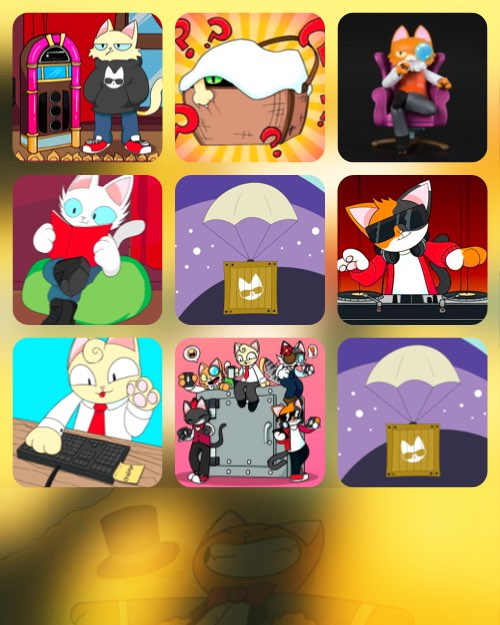
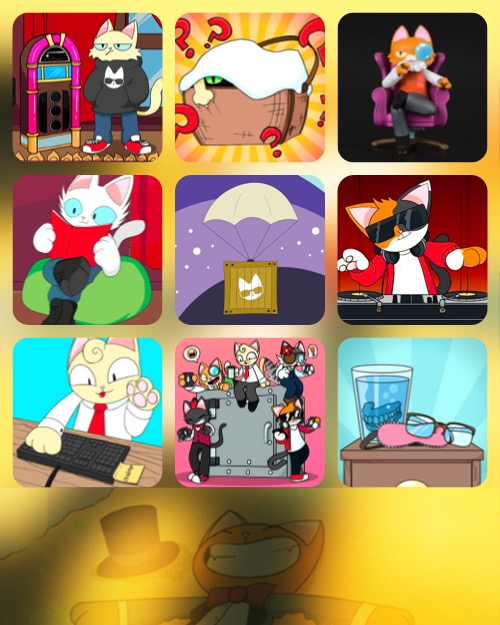
wiki: add 8th purrks - Grandma's Nightstand

Changed region(s): [[0.66, 0.5168, 0.99, 0.7904]]

diff --git a/wiki/club/index.md b/wiki/club/index.md
@@ -21,7 +21,7 @@ Carlini8 is the founder of PCC. PCC has 3 companies[^2]. One original company in
 
 ## Collections
 
-**Currently, PCC has 4 main [Collections](../collections/index.md)**: Cats, Kittens, 2nd Companion (TBA), and Tier 2 (TBA). **With 2 other Collections**: KittyVault Purrks and Purrnelope's Gift. The 4 main collections are classified into 3 tiers, which will yield different amounts of $TOKEN per day.
+**Currently, PCC Universe has 4 main [Collections](../collections/index.md) to the PCC Universe**: Cats, Kittens, 2nd Companion (Cat Grandma), and Tier 2 (TBA). **With 2 other Collections**: KittyVault Purrks and Purrnelope's Gift. The 4 main collections are classified into 3 tiers, which will yield different amounts of $TOKEN per day.
 
 <span className="wikiPostListImgR">
 
@@ -31,7 +31,7 @@ Carlini8 is the founder of PCC. PCC has 3 companies[^2]. One original company in
 
 ### Cats
 
-**[Purrnelope's Cats](../collections/cats/index.md) is PCC's 1st collection** with 10k unique Cat NFTs that grand the membership to the Country Club. Cats are Tier 1 NFTs.
+**[Purrnelope's Cats](../collections/cats/index.md) is the 1st collection in PCC Universe** with 10k unique Cat NFTs that grand the membership to the Country Club. Cats are Tier 1 NFTs.
 
 Cats mint started on 2021-07-17. After Carlini revealed himself behind the PCC project, the cats minted out on 2021-08-12.
 
@@ -43,25 +43,25 @@ Cats mint started on 2021-07-17. After Carlini revealed himself behind the PCC p
 
 ### Kittens
 
-**[Purrnelope's Kittens](../collections/kittens/index.md) is the 1st companions to the Cats** with with 10k unique Kitten NFTs. Kittens are Tier 3 NFTs.
+**[Purrnelope's Kittens](../collections/kittens/index.md) is the 1st companions to the Cats in PCC Universe** with with 10k unique Kitten NFTs. Kittens are Tier 3 NFTs.
 
-Kittens were minted by burning [Kitten Basket](../collections/kittyvault-purrks/2-kitten-basket.md) airdrops.
+Kittens were minted/redeemed by burning [Kitten Basket](../collections/kittyvault-purrks/2-kitten-basket.md) airdrops.
 
-### 2nd Companions (TBA)
+### Cat Grandma
 
-**This will be the 2nd companions to the Cats**, and are Tier 3 NFTs. The detail of the 2nd Companions is likely to be revealed in April or May 2022.
+> Cat Grandma has not been released yet. Name may be different as described here after release.
 
-Mint of 2nd Companions is going to be similar to the Kittens: claim by burning KittyVault Purrks 8th airdrop NFT.[^5]
+**Cat Grandma will be the 2nd companions to the Cats in PCC Universe** and are Tier 3 NFTs. The detail of the Cat Grandma is likely to be revealed in May 2022 after the redeem is opened.
 
-[^5]: Mint was mentioned in [PurrCast of April 27th 2022](https://twitter.com/i/spaces/1jMJgeqZpWAKL).
+Cat Grandma will be minted/redeemed by burning [Grandma's Nightstand](../collections/kittyvault-purrks/8-grandma-s-nightstand.md) airdrops.
 
 ### Tier 2 (TBA)
 
-**Tier 2 (TBA) is the PCC equivalent of Meebits / Mutants.** It is the second entry to the PCC Universe. And there are potentially 6 different version of Tier 2[^6].
+**Tier 2 (TBA) is the equivalent of Meebits / Mutants in PCC Universe.** It is the second entry to the PCC Universe. And there are potentially 6 different version of Tier 2[^5].
 
 The sale for Tier 2 has not been officially announced yet.
 
-[^6]: Some detail on Tier 2 was mentioned in [interivew by Overpriced JPEGs](/posts/2022/03/30/3rd-party/overpriced-jpegs#purrnelope-token-utility). And detail may change before it announced officially.
+[^5]: Some detail on Tier 2 was mentioned in [interivew by Overpriced JPEGs](/posts/2022/03/30/3rd-party/overpriced-jpegs#purrnelope-token-utility). And detail may change before it announced officially.
 
 <span className="wikiPostListImgR">
 
@@ -121,9 +121,9 @@ The merchandise was planned since Roadmap V1, and the team is currently working 
 
 ## Games
 
-**Games are planned in [Roadmap V2](/posts/2022/02/25/post/roadmap-2-0-6-months-on-from-launch). 4 Games are currently planned.** And the Team is working with Entity Builds to develope the first game in the NFT Worlds metaverse. Entity Builds is a best-in-class studio with incredible Minecraft builders, devs, and designers.[^7]
+**Games are planned in [Roadmap V2](/posts/2022/02/25/post/roadmap-2-0-6-months-on-from-launch). 4 Games are currently planned.** And the Team is working with Entity Builds to develope the first game in the NFT Worlds metaverse. Entity Builds is a best-in-class studio with incredible Minecraft builders, devs, and designers.[^6]
 
-[^7]: The 4 games were mentioned in Carlini8's interview by [Overpriced JPEGs](/posts/2022/03/30/3rd-party/overpriced-jpegs#purrnelope-token-utility). And they may change before the they announced officially.
+[^6]: The 4 games were mentioned in Carlini8's interview by [Overpriced JPEGs](/posts/2022/03/30/3rd-party/overpriced-jpegs#purrnelope-token-utility). And they may change before the they announced officially.
 
 ## Voting
 
@@ -170,7 +170,7 @@ The KittyVault is waiting to be fractionlized once it's ready. KittyVault Purrks
 [Roadmap 2.0](/posts/2022/02/25/post/roadmap-2-0-6-months-on-from-launch) was released on February 25, 2022, 6 months after Roadmap 1.0.
 
 - 🛠 Complete Roadmap 1.0
-- 😼 8 KittyVault Purrks Airdrops: completed 7/8
+- ✅ 8 KittyVault Purrks Airdrops [2022-Q1](#2022-q1)
 - 🛠 2nd Companion
 - 🛠 Tier 2 Collection
 - 🛠 $TOKEN
@@ -190,7 +190,7 @@ Other items from Roadmap 2.0 will be added to the list upon completion or new up
 - 08-12: Carbon Offset via Aerial ([Etherscan](https://etherscan.io/tx/0x143e27fed56a3d76e6681a9422aaf7356b6ac8108f2407cee8a9948c0f46b9cc))
 - 08-14: Launched Liquidity Pools on [NFTX](https://app.nftx.org/redeem/0xe581f272706581f9dcc362df3c7934e99192c492/) and [NFT20](https://nft20.io/asset/0x54c9e17ad8016a062ffd89d1b53aaee80c0cf43d)
 - 08-14: [60% Profile Picture Advertising](/posts/2021/08/13/post/60-profile-picture-advertising) to cat holders event started
-- 08-21: [Bored Ape #5226 fractionalized](../kittyvault/index.md#fractionalized-ape-5226) and airdropped to minters of Cats ID `#1-2000`
+- 08-21: [Bored Ape #5226 fractionalized](../kittyvault/index.md#fractionalize-ape-5226) and airdropped to minters of Cats ID `#1-2000`
 - 09-15: Community Wallet funds transferred to [KittyBank](../kittyvault/index.md#a-brief-history)
 - 09-24: [NFTX](https://app.nftx.org/redeem/0xe581f272706581f9dcc362df3c7934e99192c492/) Pool results better liquidity and was chosen to keep, NFT20 Pool closed.
 <!-- - 09-24: 1st Episode of [PurrCast](/posts/tags/purr-cast) -->
@@ -220,3 +220,4 @@ Other items from Roadmap 2.0 will be added to the list upon completion or new up
 
 - 04-15: [.pcc.eth subdomains](../ens/index.md) hit 500 names registration
 - 04-19: The Ambassadors role [revamped and leveled up linked with .pcc.eth subdomains](/posts/2022/04/19/post/the-new-ambassadors-role-revamped-and-leveled-up)
+- 04-30: [Grandma's Nightstand](../collections/kittyvault-purrks/8-grandma-s-nightstand.md) airdropped, All [8 Purrks](../collections/kittyvault-purrks/index.md) monthly airdrops completed

diff --git a/wiki/collections/kittyvault-purrks/index.md b/wiki/collections/kittyvault-purrks/index.md
@@ -12,11 +12,11 @@ description: Purrnelopes KittyVault Purrks contain a shard from the KittyVault. 
 🪂
 ![](./assets/pcc-purrks.png)
 
-Purrnelopes KittyVault Purrks contain a shard from [the KittyVault](../../kittyvault/index.md). These airdrops all go to holder's main Purrnelopes Country Club Cat. Each of the 8 airdrops represents fractional ownership of [the KittyVault](../../kittyvault/index.md).
+Purrnelopes KittyVault Purrks contain a shard from [the KittyVault](../../kittyvault/index.md). These airdrops all go to holder's main Purrnelopes Country Club Cat. Each of the 8 airdrops represents fractional ownership of [the KittyVault](../../kittyvault/index.md). Each month a snapshot will be taken, and owners will receive the airdropped NFTs to their wallets, 1 PCC Cat for 1 airdropped KittyVault Purrks NFT.
 
-The KittyVault Purrks was not on the orignal roadmap.
+The airdrops are ERC-1155 NFTs started Sep 30, 2021 with the [Hoodie Cat](./1-hoodie-cat.md). The last one [Grandma's Nightstand](8-grandma-s-nightstand.md) was airdropped Apr 30, 2022.
 
-The airdrops are ERC-1155 NFTs started Sep 2021 with the [Hoodie Cat](./1-hoodie-cat.md). Each month a snapshot will be taken, and owners will receive the airdropped NFTs to their wallets, 1 PCC Cat for 1 airdropped KittyVault Purrks NFT.
+The KittyVault Purrks was not on the orignal roadmap but added later to the project.
 
 ## Purrks
 
@@ -30,7 +30,9 @@ The airdrops are ERC-1155 NFTs started Sep 2021 with the [Hoodie Cat](./1-hoodie
 
 **[Hoodie Cat](1-hoodie-cat.md) was airdropped on 2021-09-30.**
 
-It can be used to redeem Physical Hoodie. It also represents fractional ownership of the KittyVault.
+It can be used to redeem Physical Hoodie.
+
+It also represents fractional ownership of the KittyVault.
 
 <span className="wikiPostListImgR">
 
@@ -42,7 +44,9 @@ It can be used to redeem Physical Hoodie. It also represents fractional ownershi
 
 **[Kitten Basket](2-kitten-basket.md) was airdropped on 2021-11-01.**
 
-It can be used to claim [Purrnelope's Kittens](../kittens/index.md). It does not represents fractional ownership of the KittyVault. Claimed Kitten represents fractional ownership of the KittyVault.
+It can be used to claim [Purrnelope's Kittens](../kittens/index.md). 
+
+It does not represents fractional ownership of the KittyVault. Claimed Kitten represents fractional ownership of the KittyVault.
 
 <span className="wikiPostListImgR">
 
@@ -54,7 +58,9 @@ It can be used to claim [Purrnelope's Kittens](../kittens/index.md). It does not
 
 **[Model Cat](3-model-cat.md) was airdropped on 2021-11-27.**
 
-It can be used to redeem physical 3D Model Cat. It also represents fractional ownership of the KittyVault.
+It can be used to redeem physical 3D Model Cat. 
+
+It also represents fractional ownership of the KittyVault.
 
 <span className="wikiPostListImgR">
 
@@ -66,7 +72,9 @@ It can be used to redeem physical 3D Model Cat. It also represents fractional ow
 
 **[Comic Cat](4-comic-cat.md) was airdropped on 2021-12-31.**
 
-It can be used to redeem physical Comic Book. It also represents fractional ownership of the KittyVault.
+It can be used to redeem physical Comic Book. 
+
+It also represents fractional ownership of the KittyVault.
 
 <span className="wikiPostListImgR">
 
@@ -78,7 +86,9 @@ It can be used to redeem physical Comic Book. It also represents fractional owne
 
 **[Record Cat](5-record-cat.md) was airdropped on 2022-02-01.**
 
-It can be used to redeem physical Music Record. It also represents fractional ownership of the KittyVault.
+It can be used to redeem physical Music Record. 
+
+It also represents fractional ownership of the KittyVault.
 
 <span className="wikiPostListImgR">
 
@@ -90,7 +100,9 @@ It can be used to redeem physical Music Record. It also represents fractional ow
 
 **[Keyboard Cat](6-keyboard-cat.md) was airdropped on 2022-03-02.**
 
-It can be used to redeem physical Purrnelope's branded Keyboard. It also represents fractional ownership of the KittyVault.
+It can be used to redeem physical Purrnelope's branded Keyboard.
+
+It also represents fractional ownership of the KittyVault.
 
 <span className="wikiPostListImgR">
 
@@ -102,12 +114,23 @@ It can be used to redeem physical Purrnelope's branded Keyboard. It also represe
 
 **[Ledger Cat](7-ledger-cat.md) was airdropped on 2022-03-29.**
 
-It can be used to redeem physical Purrnelope's branded Ledger Hardware Wallet. It also represents fractional ownership of the KittyVault.
+It can be used to redeem physical Purrnelope's branded Ledger Hardware Wallet.
 
-### 8. TBA
+It also represents fractional ownership of the KittyVault.
 
-- Snapshot for airdrop was taken on 2022-04-25
-- Airdrop: soon!
+<span className="wikiPostListImgR">
+
+[![](./assets/QmS5EWmcth9bkCBRsKfxc47c9KjgERJh9De7yt7BRyDxZ6_resize.gif)](./8-grandma-s-nightstand.md)
+
+</span>
+
+### 8. Grandma's Nightstand
+
+**[Grandma's Nightstand](8-grandma-s-nightstand.md) was airdropped on 2022-04-30.**
+
+It can be used to claim Cat Grandma Companion.
+
+It does not represents fractional ownership of the KittyVault. Claimed Grandma represents fractional ownership of the KittyVault.
 
 ## See Also
 

diff --git a/wiki/collections/kittyvault-purrks/8-grandma-s-nightstand.md b/wiki/collections/kittyvault-purrks/8-grandma-s-nightstand.md
@@ -1,0 +1,93 @@
+---
+title: "#8 – Grandma's Nightstand"
+image: ./assets/QmS5EWmcth9bkCBRsKfxc47c9KjgERJh9De7yt7BRyDxZ6_resize.gif
+description: This Grandma's Nightstand NFT can be redeemed for a Cat Grandma Companion or redeem for a KittyBank fractional share.
+---
+
+<span className="wikiPostHeadImgR">
+
+[![Grandma's Nightstand](./assets/QmS5EWmcth9bkCBRsKfxc47c9KjgERJh9De7yt7BRyDxZ6_resize.gif)](https://ipfs.io/ipfs/QmS5EWmcth9bkCBRsKfxc47c9KjgERJh9De7yt7BRyDxZ6)
+
+</span>
+
+[[OpenSea](https://opensea.io/assets/0xda7d42b6167f1497346d7b2336a6d7a603026db1/7)]
+
+| Companion | Physical | KV Fractions |
+| --------- | -------- | ------------ |
+| ✅Yes     | No       | No           |
+
+This Grandma's Nightstand NFT can be redeemed for a Cat Grandma Companion. 1 Cat Grandma per 1 Nightstand you own. The Grandma will be able to redeem the KittyBank token in the future, not this Nightstand, the Grandma you can claim with it, we want that to be clear. For 2 weeks this token can be solely traded or hodl'd. After the two weeks, claiming of the Grandma will be live, this will be live for 1 month. After that 1 month period (6 weeks from dispatch of the Nightstand) we will pull all of these Nightstands back. You will miss the opportunity to claim your Grandma after 6 weeks. Please remember to claim your Grandma!
+
+## Redeem
+
+### For Cat Grandma
+
+Each Grandma's Nightstand NFT can redeem for a Cat Grandma Companion.
+
+Redeem will open 2 weeks after the airdrop, and holders will have 1 month to redeem Cat Grandma.
+
+The redeem window will be likely between May 15 to Jun 14, 2022.
+
+Currently holders can trade this NFT on secondary markets.
+
+### For KittyBank Token
+
+Not with this Nightstand.
+
+The Cat Grandma will be able to redeem for [KittyBank Token](../../kittyvault/index.md#token) in the future.
+
+## Events
+
+- 2022-04-30: Airdropped
+
+## Meta
+
+- Appeared: [Apr-29-2022 10:45:17 PM +UTC](https://etherscan.io/tx/0x39de00b7f1990ad17f3303e5142865aa776597cec4ac7b64195026fff8c92fdd)
+
+  And there is a typo in the metadata, the mistake must be made by careless Carlini8.
+
+  <details><summary>Token Metadata</summary>
+
+  ```json title="ipfs://QmYzAK5zaZnhfnkCo1AooV2ox5r8w1GjCArm4wgAmc4qhC"
+  {
+    "name": "#7 – Ledger Cat",
+    "description": "This Grandma's Nightstand NFT can be redeemed for a Cat Grandma Companion. 1 Cat Grandma per 1 Nightstand you own. The Grandma will be able to redeem the KittyBank token in the future, not this Nightstand, the Grandma you can claim with it, we want that to be clear. For 2 weeks this token can be solely traded or hodl'd. After the two weeks, claiming of the Grandma will be live, this will be live for 1 month. After that 1 month period (6 weeks from dispatch of the Nightstand) we will pull all of these Nightstands back. You will miss the opportunity to claim your Grandma after 6 weeks. Please remember to claim your Grandma!",
+    "image": "ipfs://QmS5EWmcth9bkCBRsKfxc47c9KjgERJh9De7yt7BRyDxZ6",
+    "attributes": {
+      "ID": "8",
+      "Type": "Grandma's Nightstand",
+      "Artist": "1rregularCharlie",
+      "Kitty Bank": "No",
+      "Physical": "No",
+      "Companion": "Yes",
+      "Year": "1"
+    }
+  }
+  ```
+
+  </details>
+
+- Updated: [Apr-30-2022 01:16:00 PM +UTC](https://etherscan.io/tx/0xac84a3401f02b28388637bd28f208d100d76f232dd60fa957c5f4b228964a38e)
+
+  The metadata was updated to fix the typo.
+
+  <details><summary>Token Metadata</summary>
+
+  ```json title="ipfs://QmZEiL7gXiR3WvYh4YCtu1pDwJEkxMMbBptMPgZ35uZqBW"
+  {
+    "name": "#8 – Grandma's Nightstand",
+    "description": "This Grandma's Nightstand NFT can be redeemed for a Cat Grandma Companion. 1 Cat Grandma per 1 Nightstand you own. The Grandma will be able to redeem the KittyBank token in the future, not this Nightstand, the Grandma you can claim with it, we want that to be clear. For 2 weeks this token can be solely traded or hodl'd. After the two weeks, claiming of the Grandma will be live, this will be live for 1 month. After that 1 month period (6 weeks from dispatch of the Nightstand) we will pull all of these Nightstands back. You will miss the opportunity to claim your Grandma after 6 weeks. Please remember to claim your Grandma!",
+    "image": "ipfs://QmS5EWmcth9bkCBRsKfxc47c9KjgERJh9De7yt7BRyDxZ6",
+    "attributes": {
+      "ID": "8",
+      "Type": "Grandma's Nightstand",
+      "Artist": "1rregularCharlie",
+      "Kitty Bank": "No",
+      "Physical": "No",
+      "Companion": "Yes",
+      "Year": "1"
+    }
+  }
+  ```
+
+  </details>
